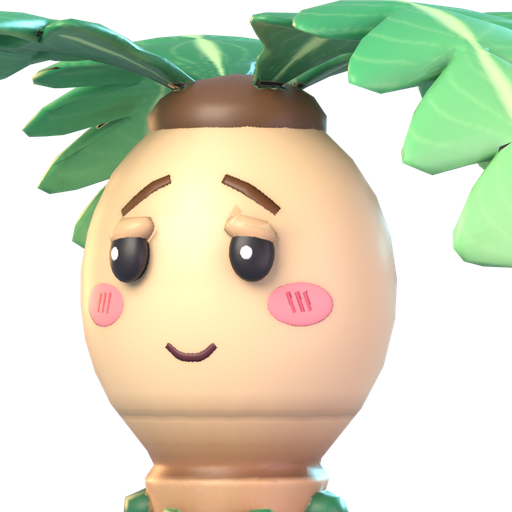
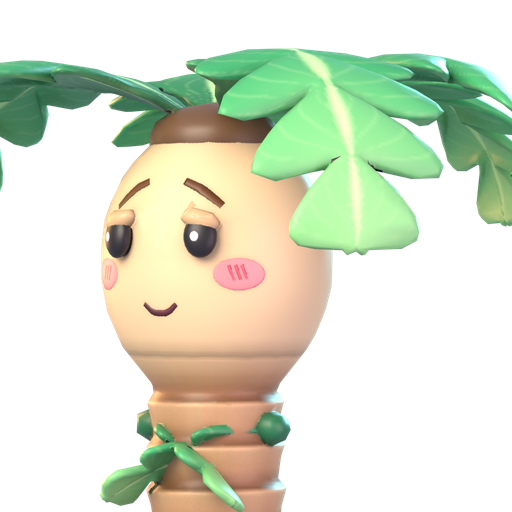
GB20: Gezegen Koşusu kademeli zorluk + kısa sesli giriş + düğmeler yan yana + gösterişli kart açılışı; Pıtır/Hışır 3B portre [skip ci]
- RunnerCourse: ilk %15 yalnız tek taş, zıpla %15'ten, kay %30'dan, çift şerit %45'ten; her 200 m'de 40 m nefes (yıldızlar üç şeride); başta seyrek aralık; tavan hızlar düştü (K 6→8 … C 9→14)
- Giriş: tek kısa cümle, sesli; Başla/Çık ve Tekrar/Çık aynı hizada yan yana, kutunun içinde
- Kart: ters gelir, yaylanır, çevrilirken parlama + dönen ışınlar + kıvılcım, bilgi sesli okunur (şans/nadirlik yok)
- Pıtır ve Hışır portresi 3/4 açı, taç yaprakları kadrajda (resident_portraits.py)

Claude-Session: https://claude.ai/code/session_01AJ1sEYm85YzTLr5sSyxgU2

diff --git a/Assets/_Pofi/Scripts/Runtime/Screens/RunnerScreen.cs b/Assets/_Pofi/Scripts/Runtime/Screens/RunnerScreen.cs
@@ -100,21 +100,27 @@ namespace Pofi.Screens
             Ui.Clear(Root);
             var root = Modal(880f, out var box, closeOutside: false);
             ModalTitle(box, Title);
-            Ui.Label(box, T("mg.runner.howto", App.State.PetName), Th.Font(33), Th.SubtleText, new Vector2(0.5f, 0.72f), new Vector2(860f, 230f));
+            // GB20-12a (kullanıcı, 2 Kasım 2026: "çok uzun yazı → çok kısa, sesli hikâye"; benchmark WarioWare tek fiil, Subway Surfers
+            // yazısız kovalamaca): tek kısa cümle, sesli; kaydırma hareketleri ilk iki koşudaki yavaş öğreticide gösterilir
+            var how = T("mg.runner.howto", App.State.PetName);
+            var howLab = Ui.Label(box, how, Th.Font(40), Th.Text, new Vector2(0.5f, 0.8f), new Vector2(820f, 110f), FontStyle.Bold);
+            VoiceButton.Attach((RectTransform)howLab.transform, new Vector2(30f, 0f)).SetText(how);
+            Audio.Voice.Say(how);
             // uzay kıyafeti seçimi (kullanıcı onayı, 26 Ekim 2026): üç takımdan biri koşuda ücretsiz giyilir (envantere girmez);
             // dükkânda da satılır. Seçim hatırlanır.
-            Ui.Label(box, T("runner.pick_suit"), Th.Font(34), Th.Text, new Vector2(0.5f, 0.52f), new Vector2(760f, 60f), FontStyle.Bold);
+            Ui.Label(box, T("runner.pick_suit"), Th.Font(30), Th.SubtleText, new Vector2(0.5f, 0.64f), new Vector2(760f, 50f), FontStyle.Bold);
             for (var i = 0; i < Suits.Length; i++)
             {
                 var k = i;
                 var on = Suits[i][0] == SuitChoice;
-                var b = Candy.Round(box, on ? new Color(1f, 0.9f, 0.55f) : Candy.White, Suits[i][0], on ? 190f : 160f, new Vector2(0.5f, 0.36f),
+                var b = Candy.Round(box, on ? new Color(1f, 0.9f, 0.55f) : Candy.White, Suits[i][0], on ? 170f : 145f, new Vector2(0.5f, 0.45f),
                     new Vector2((i - 1) * 230f, 0f), () => { SuitChoice = Suits[k][0]; Audio.Sfx.Play(Audio.SfxKind.Tap); WearSuit(); Destroy(root.gameObject); Intro(); });
                 Candy.Caption(b.transform, App.Data.Item(Suits[i][0])?.Name ?? "", 20, new Vector2(0.5f, 0f), new Vector2(210f, 34f), new Vector2(0f, -24f));
             }
-            Ui.Button(box, Th, T("mg.start"), new Vector2(0.5f, 0.15f), new Vector2(560f, 130f), () => { Destroy(root.gameObject); Play(); },
-                true, default, 52, true, GoldKit.RibbonGreenBot);
-            Ui.Button(box, Th, T("mg.exit"), new Vector2(0.5f, 0.03f), new Vector2(400f, 80f), () => App.Open(AppPage.Map), false, default, 34);
+            // GB20-12b: düğmeler üst üste binmesin — Başla (yeşil, büyük) sağda, Çık solda, ikisi de kutunun içinde aynı hizada
+            Ui.Button(box, Th, T("mg.start"), new Vector2(0.62f, 0.13f), new Vector2(430f, 112f), () => { Destroy(root.gameObject); Play(); },
+                true, default, 48, true, GoldKit.RibbonGreenBot);
+            Ui.Button(box, Th, T("mg.exit"), new Vector2(0.24f, 0.13f), new Vector2(280f, 88f), () => App.Open(AppPage.Map), false, default, 34);
         }
 
         /// <summary>Uzay takımları: takım, kask/başlık, sırt parçası (art/code3d/space_wear; dükkânda da satılır).</summary>
@@ -321,15 +327,74 @@ namespace Pofi.Screens
             var fx = _run.CardFound ? 0.56f : 0.5f;
             var fw = _run.CardFound ? 660f : 780f;
             Ui.Label(card, T(_run.CardFound ? "runner.fact_card" : "runner.fact_title"), Th.Font(34), GoldKit.CreamInk, new Vector2(fx, 0.8f), new Vector2(fw, 50f), FontStyle.Bold);
-            Ui.Label(card, T("runner." + theme + ".fact" + factN), Th.Font(36), GoldKit.CreamInk, new Vector2(fx, 0.4f), new Vector2(fw, 150f));
-            Ui.Button(box, Th, T("mg.again"), new Vector2(0.5f, 0.2f), new Vector2(560f, 130f), () =>
+            var factText = T("runner." + theme + ".fact" + factN);
+            var factLab = Ui.Label(card, factText, Th.Font(36), GoldKit.CreamInk, new Vector2(fx, 0.4f), new Vector2(fw, 150f));
+            _factToSay = factText;
+            VoiceButton.Attach(card, new Vector2(-10f, -6f)).SetText(factText);
+            Ui.Button(box, Th, T("mg.again"), new Vector2(0.62f, 0.12f), new Vector2(430f, 112f), () =>
             {
                 Destroy(root.gameObject);
                 App.RecordActivity("runner_retry");
                 Reset(Environment.TickCount);
                 Play();
-            }, true, default, 52, true, GoldKit.RibbonGreenBot);
-            Ui.Button(box, Th, T("mg.exit"), new Vector2(0.5f, 0.06f), new Vector2(460f, 96f), () => App.Open(AppPage.Map), false, default, 40);
+            }, true, default, 48, true, GoldKit.RibbonGreenBot);
+            Ui.Button(box, Th, T("mg.exit"), new Vector2(0.24f, 0.12f), new Vector2(280f, 88f), () => App.Open(AppPage.Map), false, default, 34);
+            StartCoroutine(CardReveal(card, _run.CardFound));
+        }
+
+        private string _factToSay;
+
+        /// <summary>
+        /// GB20-12d gösterişli kart açılışı (kullanıcı: "kart koleksiyonu güzel, sonda daha gösterişli"; benchmark Pokémon TCG Pocket ışık
+        /// sızması, Hearthstone kart çevirme — şans/nadirlik yok, kart hep belli): kart ters gelir, yaylanarak iner, çevrilirken beyaz
+        /// parlama + dönen ışınlar + yıldız kıvılcımları, başlık büyüyüp oturur, bilgi sesli okunur. Herhangi bir yere dokunmak beklemez.
+        /// </summary>
+        private System.Collections.IEnumerator CardReveal(RectTransform card, bool found)
+        {
+            var parent = card.parent;
+            var rays = Ui.Rect(parent, "CardRays", card.anchorMin, new Vector2(1100f, 1100f), card.anchoredPosition);
+            rays.SetSiblingIndex(card.GetSiblingIndex());
+            var ri = rays.gameObject.AddComponent<RawImage>(); ri.texture = LevelUpCelebration.RaysTex(); ri.raycastTarget = false; ri.color = new Color(1f, 0.85f, 0.4f, 0f);
+            var back = Ui.Fill(card, "Back");
+            var bi = back.gameObject.AddComponent<Image>(); bi.sprite = GoldKit.Capsule(Theme.Hex("#4A7CF0"), Theme.Hex("#2A4FB8")); bi.type = Image.Type.Sliced; bi.raycastTarget = false;
+            bi.pixelsPerUnitMultiplier = 96f / 120f;
+            Ui.IconImage(back, found ? _kit.CardIcon : "ui_star", new Vector2(0.5f, 0.5f), 150f);
+            var flash = Ui.Fill(card, "Flash");
+            var fi = flash.gameObject.AddComponent<Image>(); fi.color = new Color(1f, 1f, 1f, 0f); fi.raycastTarget = false;
+            card.localScale = new Vector3(1f, 1f, 1f) * 0.6f;
+            // 1) yaylanarak iner (0,35 sn)
+            for (var t = 0f; t < 1f; t += Time.unscaledDeltaTime / 0.35f)
+            {
+                var k = 1f - (1f - t) * (1f - t);
+                card.localScale = Vector3.one * Mathf.Lerp(0.6f, 1f, k) * (1f + Mathf.Sin(t * Mathf.PI) * 0.06f);
+                yield return null;
+            }
+            yield return new WaitForSecondsRealtime(0.35f);
+            // 2) çevrilme: genişlik 1 → 0, yüz değişir, 0 → 1,08 → 1
+            Audio.Sfx.Play(Audio.SfxKind.Chime);
+            for (var t = 0f; t < 1f; t += Time.unscaledDeltaTime / 0.14f) { card.localScale = new Vector3(1f - t, 1f, 1f); yield return null; }
+            back.gameObject.SetActive(false);
+            fi.color = new Color(1f, 1f, 1f, 0.85f);
+            var sp = RectTransformUtility.WorldToScreenPoint(null, card.position);
+            StarSparkles.Around(App.Overlay.transform, new Vector2(sp.x / Mathf.Max(1f, Screen.width), sp.y / Mathf.Max(1f, Screen.height)), new Vector2(0.22f, 0.16f), 14, 31, 1.6f);
+            Audio.Haptics.Medium();
+            for (var t = 0f; t < 1f; t += Time.unscaledDeltaTime / 0.22f)
+            {
+                card.localScale = new Vector3(Mathf.Lerp(0f, 1.08f, t), Mathf.Lerp(1f, 1.08f, t), 1f);
+                yield return null;
+            }
+            // 3) parlama söner, ışınlar döner, kart yerine oturur; bilgi okunur
+            if (!string.IsNullOrEmpty(_factToSay)) Audio.Voice.Say(_factToSay);
+            for (var t = 0f; t < 2.6f; t += Time.unscaledDeltaTime)
+            {
+                if (card == null) yield break;
+                fi.color = new Color(1f, 1f, 1f, Mathf.Max(0f, 0.85f - t * 2.8f));
+                card.localScale = Vector3.one * (t < 0.25f ? Mathf.Lerp(1.08f, 1f, t / 0.25f) : 1f);
+                ri.color = new Color(1f, 0.85f, 0.4f, Mathf.Clamp01(t / 0.3f) * 0.38f * Mathf.Clamp01((2.6f - t) / 0.8f));
+                rays.localRotation = Quaternion.Euler(0f, 0f, -t * 25f);
+                yield return null;
+            }
+            if (rays != null) Destroy(rays.gameObject);
         }
 
         // ------------------------------------------------------------ dokunma

diff --git a/Assets/_Pofi/Scripts/Logic/Runner/Runner.cs b/Assets/_Pofi/Scripts/Logic/Runner/Runner.cs
@@ -51,10 +51,12 @@ namespace Pofi.Logic.Runner
         {
             switch (band)
             {
-                case AgeBand.K: return new RunnerConfig { StartSpeed = 7f, MaxSpeed = 9f, Goal = 420f, Hearts = 0, MinGap = 24f, Reaction = 1.6f, DoubleChance = 0f, FullWidthChance = 0.2f };
-                case AgeBand.A: return new RunnerConfig { StartSpeed = 8f, MaxSpeed = 11f, Goal = 560f, Hearts = 5, MinGap = 21f, Reaction = 1.35f, DoubleChance = 0.2f, FullWidthChance = 0.28f };
-                case AgeBand.B: return new RunnerConfig { StartSpeed = 9f, MaxSpeed = 13f, Goal = 720f, Hearts = 3, MinGap = 18f, Reaction = 1.15f, DoubleChance = 0.35f, FullWidthChance = 0.32f };
-                default: return new RunnerConfig { StartSpeed = 10f, MaxSpeed = 15f, Goal = 860f, Hearts = 3, MinGap = 16f, Reaction = 1.0f, DoubleChance = 0.45f, FullWidthChance = 0.35f };
+                // GB20-12c (kullanıcı, 2 Kasım 2026: "mesafeye bağlı kademeli zorluk, çok zor olmasın"): tavan hız başlangıcın 1,3–1,5 katı
+                // (Unity'nin örnek koşu oyununda 2 kat; çocuk için sert), tepki süresi korunur (aralık = hız × süre)
+                case AgeBand.K: return new RunnerConfig { StartSpeed = 6f, MaxSpeed = 8f, Goal = 420f, Hearts = 0, MinGap = 24f, Reaction = 1.6f, DoubleChance = 0f, FullWidthChance = 0.2f };
+                case AgeBand.A: return new RunnerConfig { StartSpeed = 7f, MaxSpeed = 10f, Goal = 560f, Hearts = 5, MinGap = 21f, Reaction = 1.35f, DoubleChance = 0.2f, FullWidthChance = 0.28f };
+                case AgeBand.B: return new RunnerConfig { StartSpeed = 8f, MaxSpeed = 12f, Goal = 720f, Hearts = 3, MinGap = 18f, Reaction = 1.15f, DoubleChance = 0.35f, FullWidthChance = 0.32f };
+                default: return new RunnerConfig { StartSpeed = 9f, MaxSpeed = 14f, Goal = 860f, Hearts = 3, MinGap = 16f, Reaction = 1.0f, DoubleChance = 0.45f, FullWidthChance = 0.35f };
             }
         }
 
@@ -71,6 +73,7 @@ namespace Pofi.Logic.Runner
         public const int Lanes = 3;
         public const float StartClear = 30f, EndClear = 25f;
         public const float GemStep = 2.6f;
+        public const float BreatherEvery = 200f, BreatherLength = 40f;   // GB20-12c nefes bölümü
 
         public RunnerConfig Config { get; }
         public List<Obstacle> Obstacles { get; } = new List<Obstacle>();
@@ -86,12 +89,28 @@ namespace Pofi.Logic.Runner
             var z = StartClear;
             var free = 1;   // önceki sıranın açık şeridi (toplanacak dizisi oradan akar)
             var rows = new List<(float z, bool full)>();
+            var breather = BreatherEvery;
             while (z < cfg.Goal - EndClear)
             {
-                var r = rng.NextDouble();
-                if (r < cfg.FullWidthChance)
+                // GB20-12c kademeli zorluk (benchmark: Unity örnek koşusunda ilk parçalar engelsiz; WarioWare yeni kuralı tek başına
+                // tanıtır): ilk %15 yalnız tek taş; zıpla (alçak) %15'ten, kay (yüksek) %30'dan, iki şerit birden %45'ten sonra gelir
+                // ve olasılıkları yavaşça tavana çıkar. Her ~200 m'de 40 m'lik nefes (yalnız yıldız).
+                var progress = z / Math.Max(1f, cfg.Goal);
+                if (z >= breather && z + BreatherLength < cfg.Goal - EndClear)
                 {
-                    var kind = rng.NextDouble() < 0.5 ? Hazard.Low : Hazard.High;
+                    // yıldızlar üç şeride yay gibi dağılır: hangi şeritte koşarsa koşsun çocuk birkaçını toplar
+                    for (var g = 0; g * GemStep * 1.6f < BreatherLength - 8f; g++)
+                        Pickups.Add(new Pickup { Z = z + 4f + g * GemStep * 1.6f, Lane = new[] { 1, 0, 1, 2 }[g % 4], Height = 0.35f });
+                    z += BreatherLength;
+                    breather += BreatherEvery;
+                    continue;
+                }
+                var fullChance = progress < 0.15f ? 0f : cfg.FullWidthChance * Math.Min(1f, 0.35f + (progress - 0.15f) / 0.35f);
+                var twoChance = progress < 0.45f ? 0f : cfg.DoubleChance * Math.Min(1f, 0.4f + (progress - 0.45f) / 0.3f);
+                var r = rng.NextDouble();
+                if (r < fullChance)
+                {
+                    var kind = progress < 0.3f || rng.NextDouble() < 0.5 ? Hazard.Low : Hazard.High;
                     Obstacles.Add(new Obstacle { Z = z, Lane = -1, Kind = kind });
                     rows.Add((z, true));
                     // Low'un üstünden yay çizen toplanacaklar (zıplayana ödül)
@@ -99,7 +118,7 @@ namespace Pofi.Logic.Runner
                 }
                 else
                 {
-                    var two = rng.NextDouble() < cfg.DoubleChance;
+                    var two = rng.NextDouble() < twoChance;
                     // açık şerit en çok bir kayar: yeni açık şerit eskisine komşu ya da aynı
                     var open = Math.Max(0, Math.Min(Lanes - 1, free + rng.Next(-1, 2)));
                     var single = Other(open, rng);
@@ -112,7 +131,7 @@ namespace Pofi.Logic.Runner
                     rows.Add((z, false));
                     free = open;
                 }
-                var gap = Math.Max(cfg.MinGap, cfg.SpeedAt(z) * cfg.Reaction) + (float)rng.NextDouble() * 6f;
+                var gap = Math.Max(cfg.MinGap, cfg.SpeedAt(z) * cfg.Reaction) * (1.25f - 0.25f * progress) + (float)rng.NextDouble() * 6f;   // başta daha seyrek
                 // toplanacak dizisi: bu sıradan sonraki aralığın ortasında, açık şeritte
                 var next = z + gap;
                 if (rng.NextDouble() < 0.6) Trail(z + 4f, Math.Min(next - 4f, cfg.Goal - EndClear), free);

diff --git a/art/voice/build_voice.py b/art/voice/build_voice.py
@@ -165,6 +165,10 @@ def catalog():
         for k in keys:
             if k in tr and "{" not in fill_pet(tr[k]):
                 add(fill_pet(tr[k]), role, "tr:" + k, who)
+    # GB20-12a/12d: Gezegen Koşusu kısa sesli giriş + kart açılışında okunan bilgiler (uzay ve Mısır dünyaları)
+    for k, v in tr.items():
+        if k == "mg.runner.howto" or k.startswith(("runner.space.fact", "runner.egypt.fact")):
+            add(fill_pet(v), "anlatici", "tr:" + k, "narrator")
     if "gift.reveal" in tr and "gift.reveal_sub" in tr:   # ScreenBase.StoneReveal iki satırı birlikte okur
         add(tr["gift.reveal"] + " " + tr["gift.reveal_sub"], "anlatici", "tr:gift.reveal", "narrator")
     for a, b, c in [("rewards.intro_1", "rewards.intro_2", "rewards.intro_3"), ("gift.l1", "gift.l2", "gift.l3")]:   # tanıtım kartı üç satırı tek seferde okur

diff --git a/art/scripts/resident_portraits.py b/art/scripts/resident_portraits.py
@@ -28,8 +28,9 @@ LOOK = {
     'pus': dict(model='res_pus', yaw=-20, cam_h=0.60, aim_h=0.50, fit='whole'),
     # kodla 3B adalılar (art/code3d/residents_v1.py, 24 Ekim 2026)
     'tosbi': dict(model='res_tosbi', yaw=-22, cam_h=0.86, aim_h=0.78, keep=0.56, shift=0.02),
-    'pitir': dict(model='res_pitir', yaw=-18, cam_h=0.70, aim_h=0.62, face=(0.34, 0.42), shift=0.0),
-    'hisir': dict(model='res_hisir', yaw=-18, cam_h=0.70, aim_h=0.62, face=(0.22, 0.44), shift=0.0),
+    # GB20-13 (kullanıcı: "Pıtır'ın portresi kesilmiş resim gibi"): 3/4 açı, tepe yaprakları kadrajda (kesim yüz + taç)
+    'pitir': dict(model='res_pitir', yaw=-32, cam_h=0.74, aim_h=0.6, face=(0.27, 0.6), shift=0.04),
+    'hisir': dict(model='res_hisir', yaw=-30, cam_h=0.74, aim_h=0.6, face=(0.24, 0.6), shift=0.04),
 }
 
 SIZE = 512
